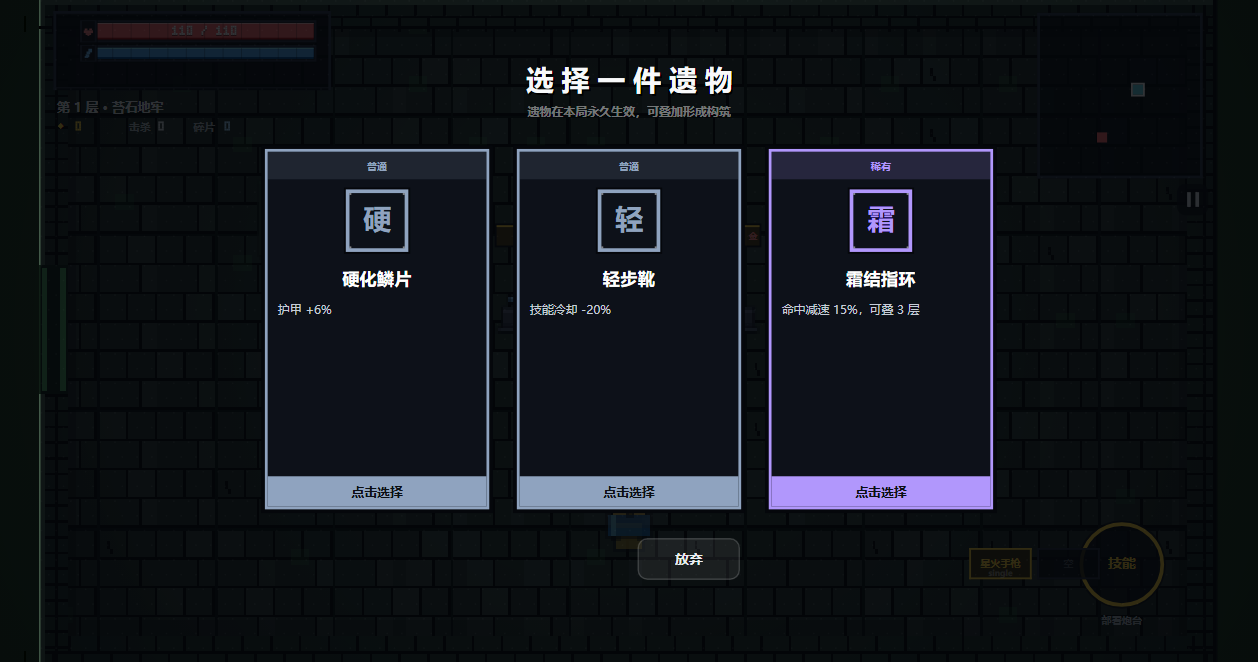
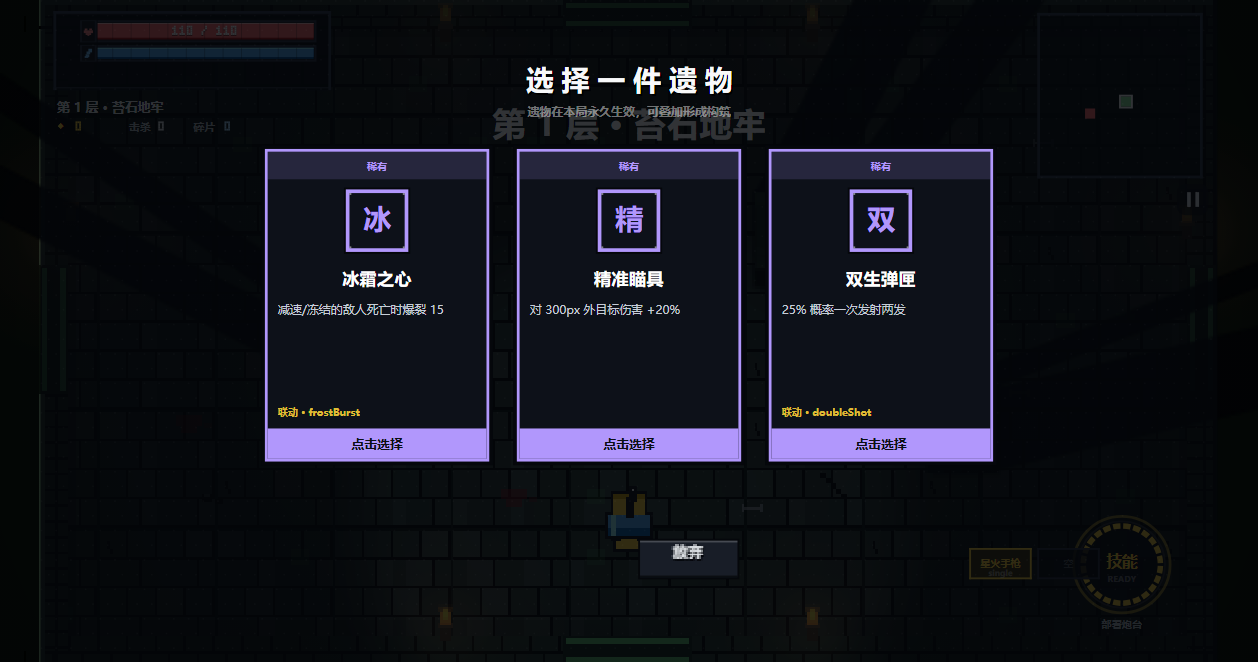
feat: pixel buttons, reward stagger, shop shelf polish, softer shadows

diff --git a/index.html b/index.html
@@ -4260,6 +4260,7 @@
         c.fillRect(-28, 27, 56, 3);
         const bob = Math.round(Math.sin(G.time * 3 + s.x) * 2);
         c.translate(0, bob);
+        c.scale(1.35, 1.35);
         if (s.kind === 'weapon') {
           const w = WEAPONS[s.id];
           c.fillStyle = '#0a0c11';
@@ -4859,8 +4860,8 @@
     g.fillStyle = rg;
     g.beginPath(); g.arc(px, py, rad, 0, TAU); g.fill();
     g.globalCompositeOperation = 'source-over';
-    g.fillStyle = 'rgba(2,3,6,0.9)';
-    const L = 700 * K;
+    g.fillStyle = 'rgba(2,3,6,0.62)';
+    const L = 520 * K;
     for (const o of room.obstacles) {
       const x1 = o.x * K + ox, y1 = o.y * K + oy;
       const x2 = (o.x + o.w) * K + ox, y2 = (o.y + o.h) * K + oy;
@@ -4993,16 +4994,15 @@
     const c = ctx;
     opt = opt || {};
     addHot(id, x, y, w, h);
-    const hover = false;
-    c.fillStyle = opt.primary ? 'rgba(77,171,247,.22)' : 'rgba(255,255,255,.07)';
-    rr(x, y, w, h, 10); c.fill();
-    c.strokeStyle = opt.primary ? 'rgba(116,192,252,.8)' : 'rgba(255,255,255,.18)';
-    c.lineWidth = 1.5; c.stroke();
-    c.fillStyle = opt.color || (opt.primary ? '#d0ebff' : '#e9ecef');
-    c.font = font(opt.size || 18, 700);
-    c.textAlign = 'center'; c.textBaseline = 'middle';
-    c.fillText(label, x + w / 2, y + h / 2 + 1);
-    c.textAlign = 'left'; c.textBaseline = 'alphabetic';
+    const col = opt.color || (opt.primary ? '#ffd43b' : '#dee2e6');
+    c.fillStyle = '#05070b'; c.fillRect(x, y, w, h);
+    c.fillStyle = opt.primary ? '#4a3a12' : '#181d27'; c.fillRect(x + 2, y + 2, w - 4, h - 4);
+    c.fillStyle = opt.primary ? '#ffd43b' : 'rgba(255,255,255,.20)';
+    c.fillRect(x + 2, y + 2, w - 4, 2);
+    c.fillStyle = 'rgba(0,0,0,.55)'; c.fillRect(x + 2, y + h - 4, w - 4, 2);
+    const size = opt.size || 18;
+    const step = size >= 18 ? 3 : 2;
+    pixText(label, x + w / 2, y + h / 2 + size * 0.36, size, col, 'center', step);
   }
   function wrapText(str, maxW, size, weight) {
     const c = ctx;
@@ -5370,14 +5370,21 @@
     c.fillText('遗物在本局永久生效，可叠加形成构筑', 640, 126);
     const opts = G.reward.options || [];
     const n = opts.length;
-    const cw = 252, gap = 22, ch = 400;
+    const cw = 252, gap = 22, ch = 348;
     const total = n * cw + (n - 1) * gap;
     const sx = (1280 - total) / 2;
     for (let i = 0; i < n; i++) {
       const r = opts[i];
       if (!r) continue;
       const x = sx + i * (cw + gap), y = 158;
-      addHot('reward' + i, x, y, cw, ch);
+      const t0 = G.reward.t0 || (G.reward.t0 = G.time);
+      const k = clamp((G.time - t0 - i * 0.07) / 0.22, 0, 1);
+      if (k <= 0.01) continue;
+      const dy = Math.round((1 - k) * 28);
+      addHot('reward' + i, x, y + dy, cw, ch);
+      c.save();
+      c.globalAlpha = k;
+      c.translate(0, dy);
       const rar = RARITY[r.rar];
       // 外框（像素倒角）
       c.fillStyle = '#05070b';
@@ -5422,6 +5429,7 @@
       c.fillText('点击选择', x + cw / 2, y + ch - 18);
       c.textAlign = 'left';
       c.textAlign = 'center';
+      c.restore();
     }
     c.textAlign = 'left';
     const run = G.run;
@@ -5979,7 +5987,7 @@
     beginUI();
     // 价签（所有商品常驻显示）
     for (const s of run.shopItems) {
-      const ui = worldToUI(s.x, s.y - 74);
+      const ui = worldToUI(s.x, s.y - 60);
       const tx = ui.x, ty = ui.y, tw = 64, th = 26;
       ctx.fillStyle = '#0a0c11';
       ctx.fillRect(tx - tw / 2, ty - th / 2, tw, th);
@@ -5997,6 +6005,19 @@
         ctx.font = font(10, 800);
         ctx.fillText('金', tx + 18, ty + 4);
       }
+      // 品类标签（石台下方）
+      const kindName = s.kind === 'weapon' ? '武器' : s.kind === 'relic' ? '遗物' : '补给';
+      const kindCol = s.kind === 'weapon' ? '#ffd43b' : s.kind === 'relic' ? '#b197fc' : '#69db7c';
+      const ub = worldToUI(s.x, s.y + 46);
+      ctx.font = font(10, 800);
+      ctx.textAlign = 'center';
+      const kw = ctx.measureText(kindName).width + 12;
+      ctx.fillStyle = '#05070b';
+      ctx.fillRect(ub.x - kw / 2, ub.y - 9, kw, 16);
+      ctx.fillStyle = kindCol;
+      ctx.fillRect(ub.x - kw / 2, ub.y - 9, kw, 2);
+      ctx.fillText(kindName, ub.x, ub.y + 4);
+      ctx.textAlign = 'left';
     }
     run.shopItems.forEach((s, i) => {
       if (dist(p.x, p.y, s.x, s.y) < 96) {
